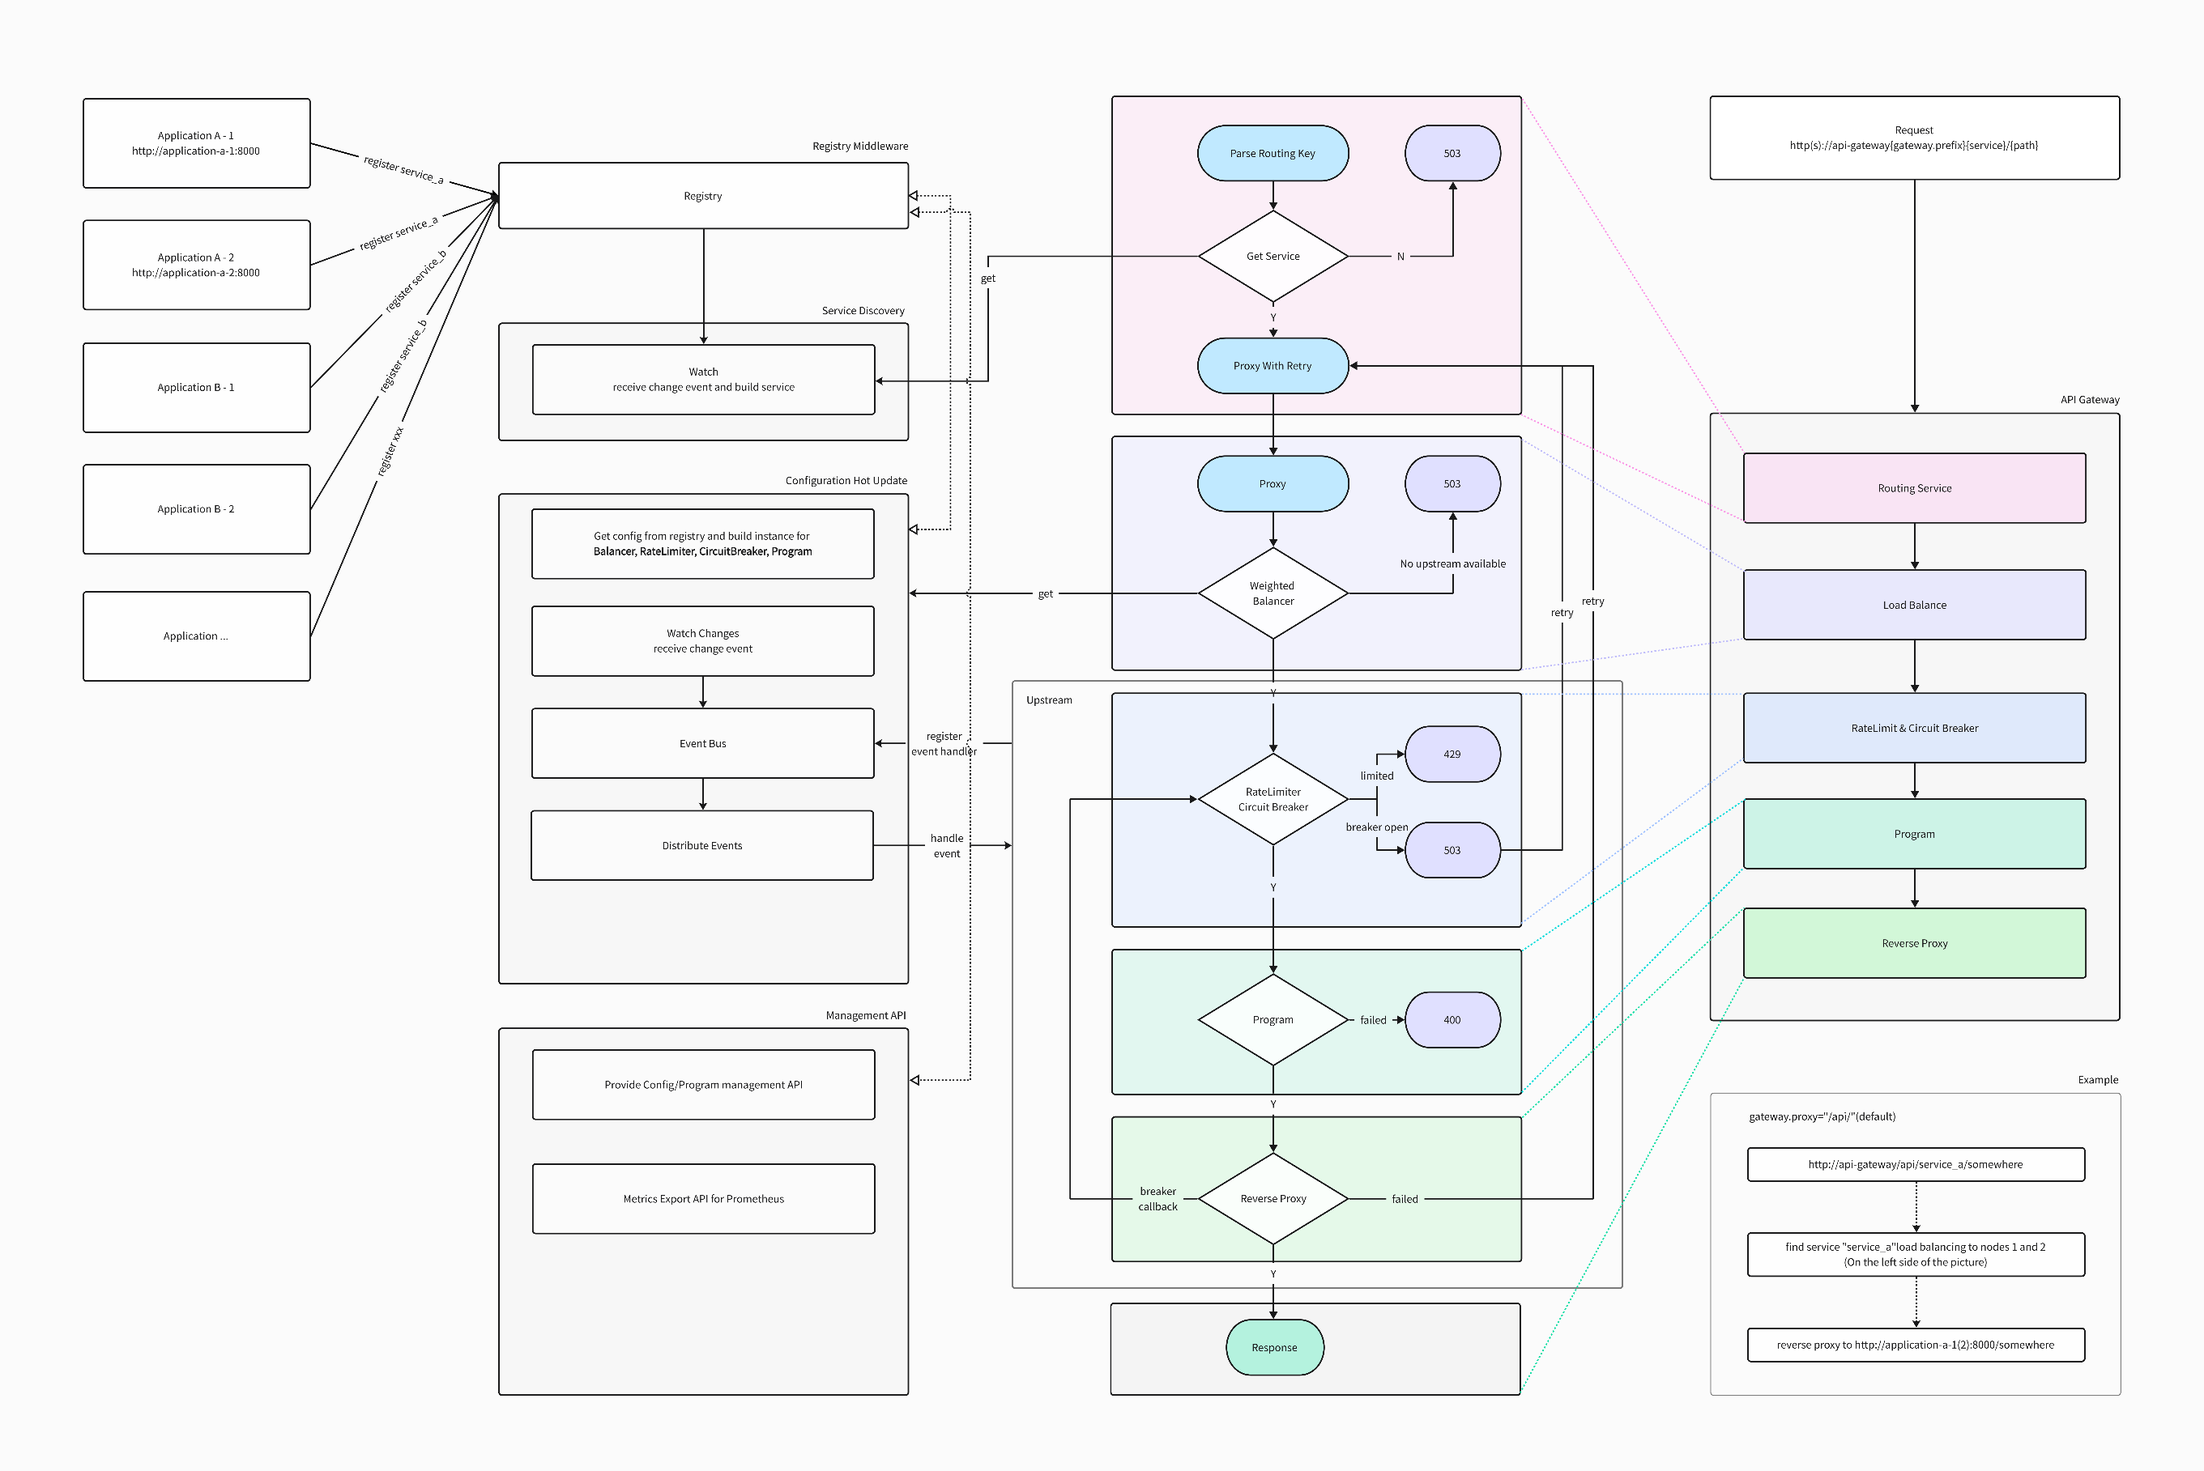
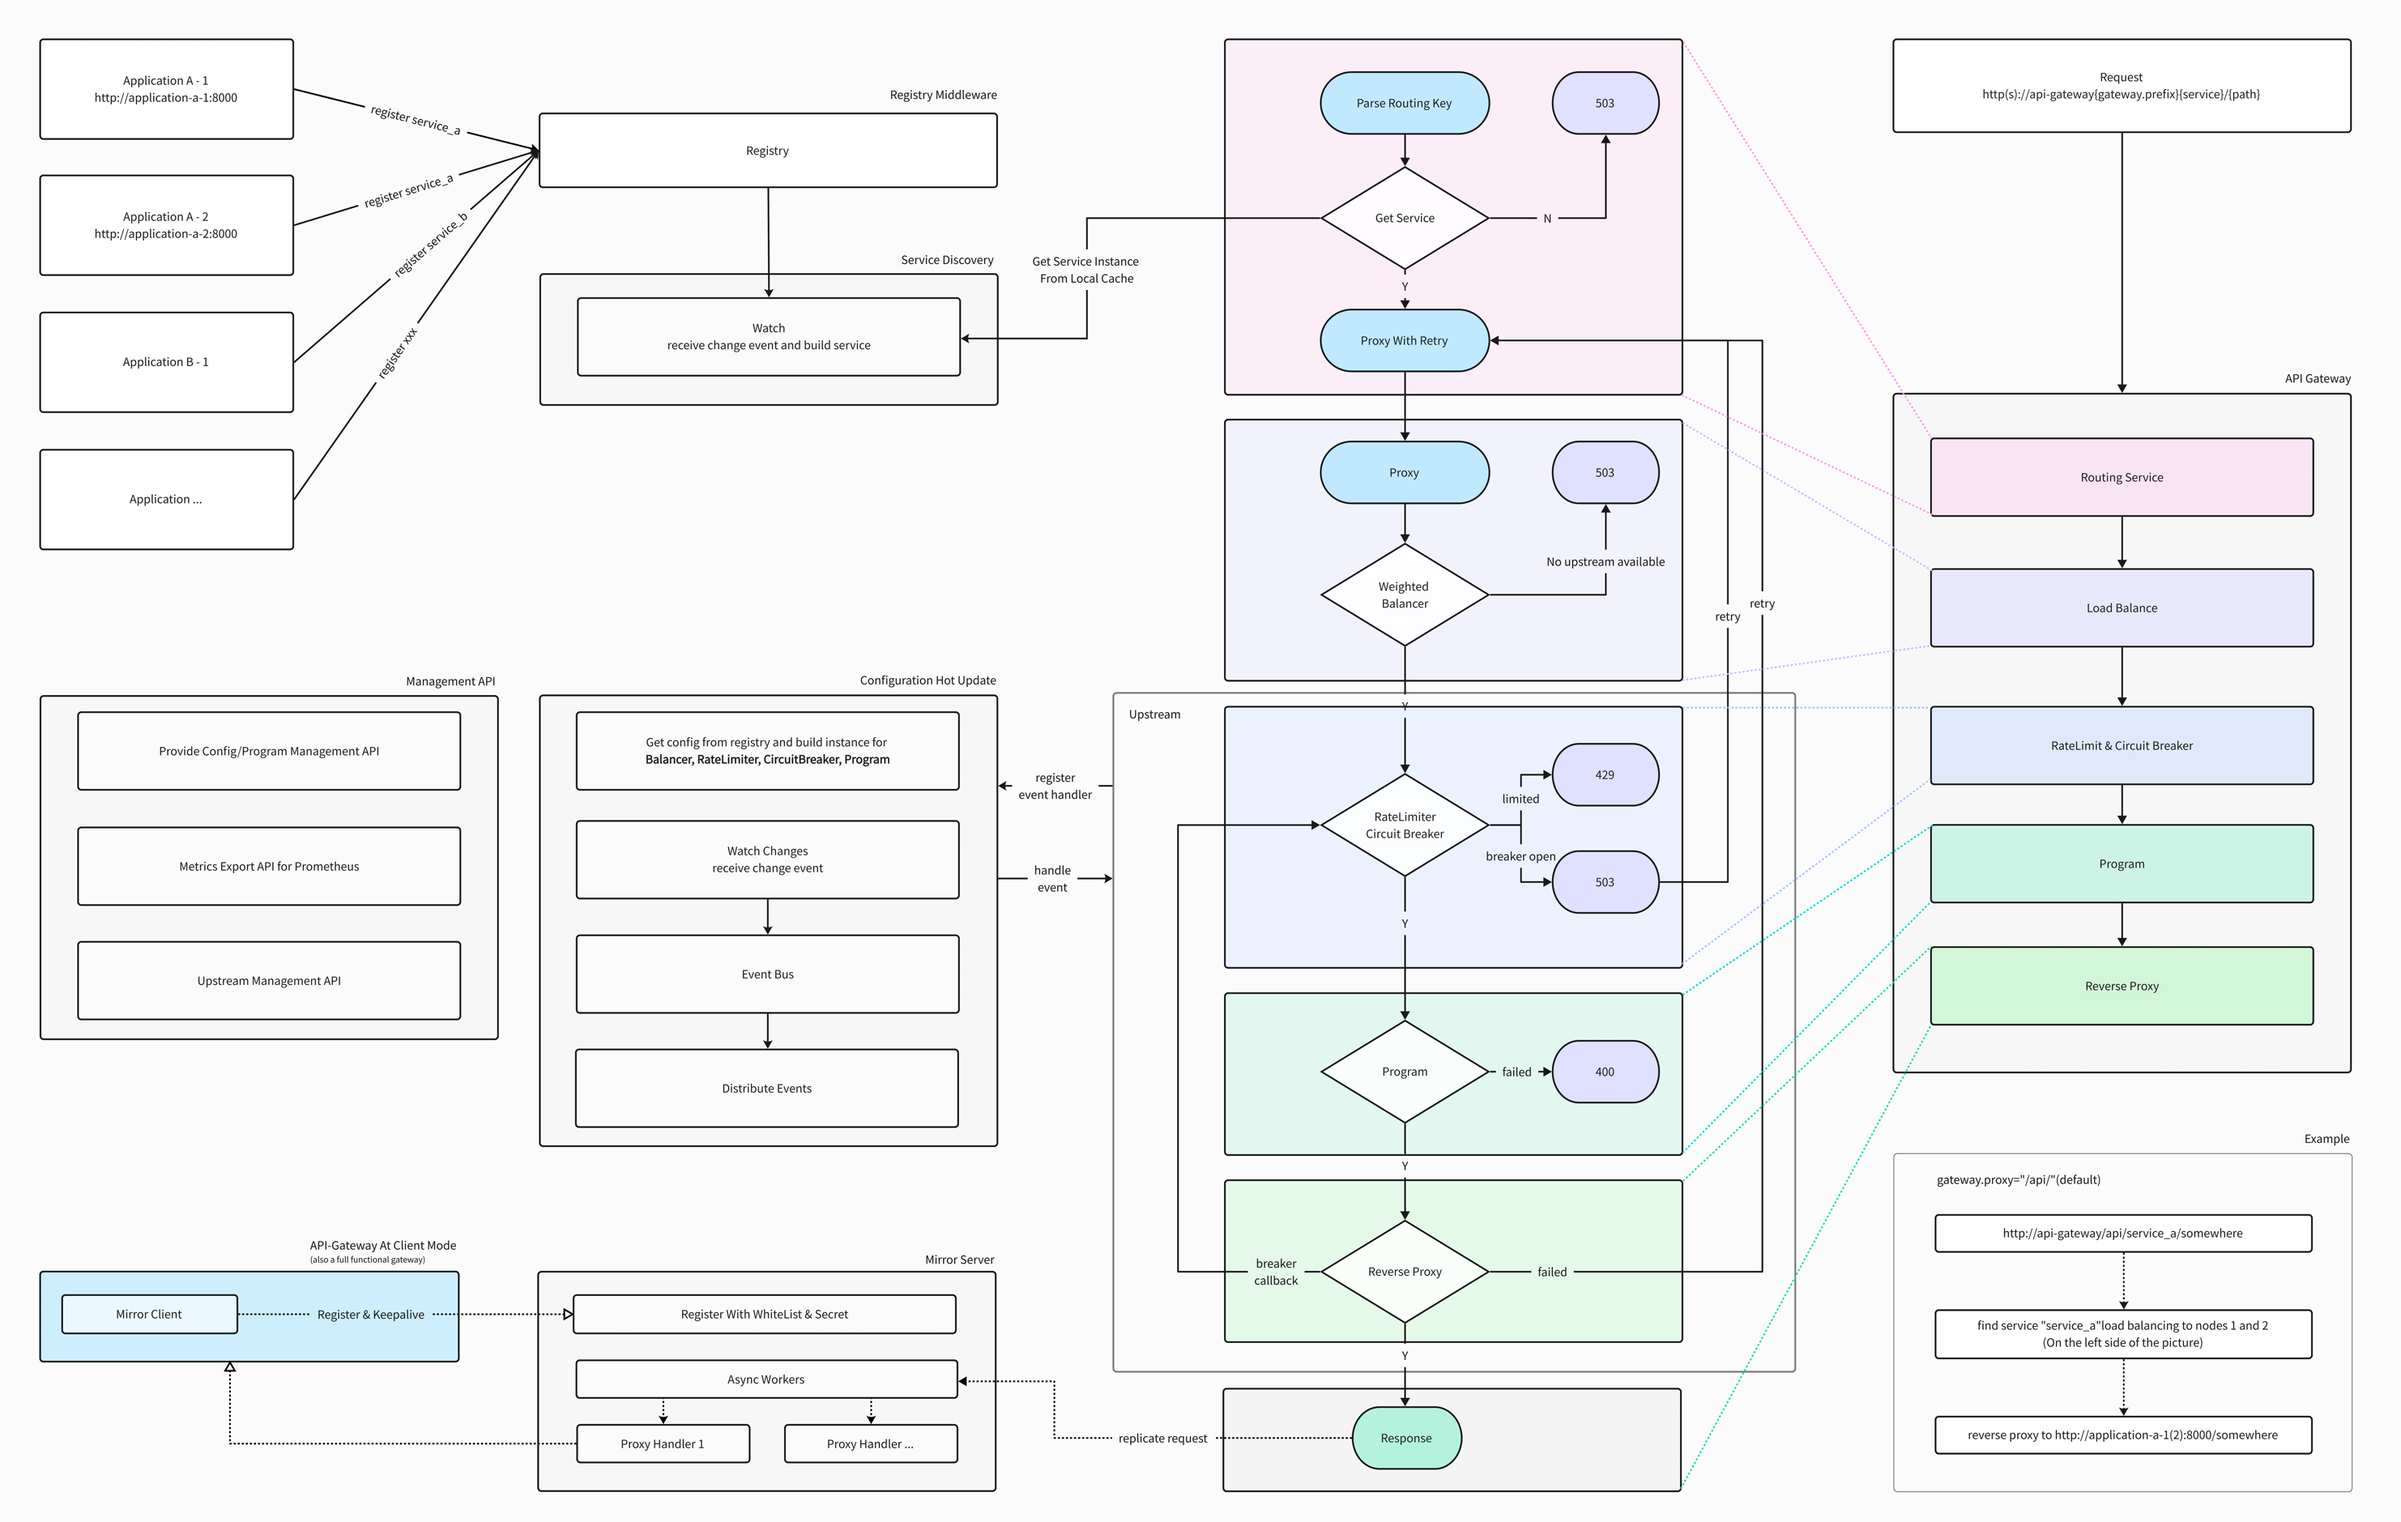
upd: doc

diff --git a/README.md b/README.md
@@ -31,6 +31,12 @@ configuration hot updates supported programmable api gateway
             * [Extra](#extra)
                 * [Fields](#fields)
                 * [Example](#example-1)
+        * [Request Replicate](#request-replicate)
+            * [How it works](#how-it-works)
+            * [Config](#config-1)
+                * [Common](#common)
+                * [Server](#server)
+                * [Client](#client)
     * [Config Example](#config-example)
     * [Dependencies](#dependencies)
 
@@ -53,6 +59,7 @@ configuration hot updates supported programmable api gateway
 * Retry
 * Configuration Hot Updates
 * Metrics for prometheus
+* Request Replicate (Mirror)
 
 ### Hot Updates Supported
 
@@ -279,6 +286,41 @@ gateway_http_status_total{status="200"} 5234
 gateway_http_status_total{status="502"} 2
 ```
 
+### Request Replicate
+
+#### How it works
+
+> Register the client to the registry through the server-side proxy
+> then server create a reverse proxy handler based on it. after the
+> request proxy response is completed, the request will be replicated
+> and push to the target server asynchronously.
+
+#### Config
+
+##### Common
+
+| Field       | Description  | Value                                  | Default |
+|-------------|--------------|----------------------------------------|---------|
+| mirror.mode | running mode | ```"server"``` ```"client"``` ```""``` | ""      |
+
+##### Server
+
+| Field                            | Description                                                                                       | Value  | Default |
+|----------------------------------|---------------------------------------------------------------------------------------------------|--------|---------|
+| mirror.server.ch_buffer_size     | channel buffer size, if set to 0 push operation<br/> will be blocked till it is done.             | int    | 100     |
+| mirror.server.worker_count       | reverse proxy worker count. when request costs <br/>time more worker may improve block situation. | int    | 10      |
+| mirror.server.heartbeat_interval | client heartbeat interval seconds.                                                                | int    | 30      |
+| mirror.server.white_list         | access white list, accept domain name or ip address.<br/> allow all when value not set.           | array  | []      |
+| auth.secret                      | access secret.                                                                                    | string | ""      |
+
+##### Client
+
+| Field                        | Description                                               | Value  | Default |
+|------------------------------|-----------------------------------------------------------|--------|---------|
+| mirror.client.server_address | server address. e.g. "some.host:8001"                     | string | ""      |
+| mirror.client.secret         | same as server side auth.secret                           | string | ""      |
+| mirror.client.filter         | service filter, if not set all request will be replicated | array  | []      |
+
 ## Config Example
 
 ```yaml
@@ -310,6 +352,29 @@ gateway:
     # md5("password")->"5f4dcc3b5aa765d61d8327deb882cf99"->md5("5f4dcc3b5aa765d61d8327deb882cf99") = "696d29e0940a4957748fe3fc9efd22a3"
     # if password not empty, calling management api, "Authorization" header is required, value is md5("password")
     password: "696d29e0940a4957748fe3fc9efd22a3"
+
+# request mirror config
+mirror:
+  # working mode "","client","server"
+  mode: "server"
+  server:
+    # channel buffer size, default 100
+    ch_buffer_size: 100
+    # async worker count, default 10
+    worker_count: 10
+    # client heartbeat interval, default 30
+    heartbeat_interval: 30
+    # access white list, accept domain name or ip address
+    white_list:
+      - "127.0.0.1"
+  client:
+    server_address: "127.0.0.1:8001"
+    secret: "P@sswOrd"
+    # service_name going to replicate to,
+    # if not set will replicate to all
+    filter:
+      - "service_name_1"
+      - "service_name_2"
 
 # registry config
 registry:

diff --git a/README_CN.md b/README_CN.md
@@ -31,6 +31,12 @@
             * [额外指标](#额外指标)
                 * [释义](#释义)
                 * [示例](#示例-1)
+        * [流量复制](#流量复制)
+            * [如何工作](#如何工作)
+            * [配置](#配置)
+                * [通用](#通用)
+                * [服务端](#服务端)
+                * [客户端](#客户端)
     * [配置文件示例](#配置文件示例)
     * [依赖项目](#依赖项目)
 
@@ -53,6 +59,7 @@
 * 请求重试
 * 配置热更新
 * Prometheus指标接入
+* 流量复制 (镜像)
 
 ### 支持配置热更
 
@@ -277,6 +284,38 @@ gateway_http_status_total{status="200"} 5234
 gateway_http_status_total{status="502"} 2
 ```
 
+### 流量复制
+
+#### 如何工作
+
+> 通过服务端代理注册客户端到注册中心并创建对应的反向代理处理器，在流量代理响应结束后异步推送到客户端注册的目标主机。
+
+#### 配置
+
+##### 通用
+
+| 字段          | 描述   | 值                                      | 默认 |
+|-------------|------|----------------------------------------|----|
+| mirror.mode | 工作模式 | ```"server"``` ```"client"``` ```""``` | "" |
+
+##### 服务端
+
+| 字段                               | 描述                                  | 值      | 默认  |
+|----------------------------------|-------------------------------------|--------|-----|
+| mirror.server.ch_buffer_size     | 推送缓冲区大小，如果设置为 0 会阻塞直到推送完成，影响代理资源回收。 | int    | 100 |
+| mirror.server.worker_count       | 代理工作线程数，当请求耗时高时提高工作线程数量会改善阻塞时长。     | int    | 10  |
+| mirror.server.heartbeat_interval | 客户端心跳间隔秒数                           | int    | 30  |
+| mirror.server.white_list         | 访问白名单，允许访问的域名或 IP 地址。为空时允许所有。       | array  | []  |
+| auth.secret                      | 访问密钥                                | string | ""  |
+
+##### 客户端
+
+| 字段                           | 描述                       | 值      | 默认 |
+|------------------------------|--------------------------|--------|----|
+| mirror.client.server_address | 服务端地址，如 "some.host:8001" | string | "" |
+| mirror.client.secret         | 访问密钥，与服务端 auth.secret 相同 | string | "" |
+| mirror.client.filter         | 服务过滤，如果不设置所有请求都会被复制      | array  | [] |
+
 ## 配置文件示例
 
 ```yaml
@@ -308,6 +347,29 @@ gateway:
     # md5("password")->"5f4dcc3b5aa765d61d8327deb882cf99"->md5("5f4dcc3b5aa765d61d8327deb882cf99") = "696d29e0940a4957748fe3fc9efd22a3"
     # 如果这个字段不为空，在调用管理API时，需要在请求头""Authorization"中添加明文密码一次哈希的值
     password: "696d29e0940a4957748fe3fc9efd22a3"
+
+
+# 流量复制配置
+mirror:
+  # 工作模式 "","client","server"
+  mode: "server"
+  server:
+    # 缓冲区大小, 默认 100
+    ch_buffer_size: 100
+    # 异步处理worker数量, 默认 10
+    worker_count: 10
+    # 客户端心跳间隔（秒）, 默认 30
+    heartbeat_interval: 30
+    # 白名单，允许访问的域名或ip
+    white_list:
+      - "127.0.0.1"
+  client:
+    server_address: "127.0.0.1:8001"
+    secret: "P@sswOrd"
+    # 需要复制流量的服务，不设置时复制全部
+    filter:
+      - "service_name_1"
+      - "service_name_2"
 
 # 注册中心配置
 registry:
